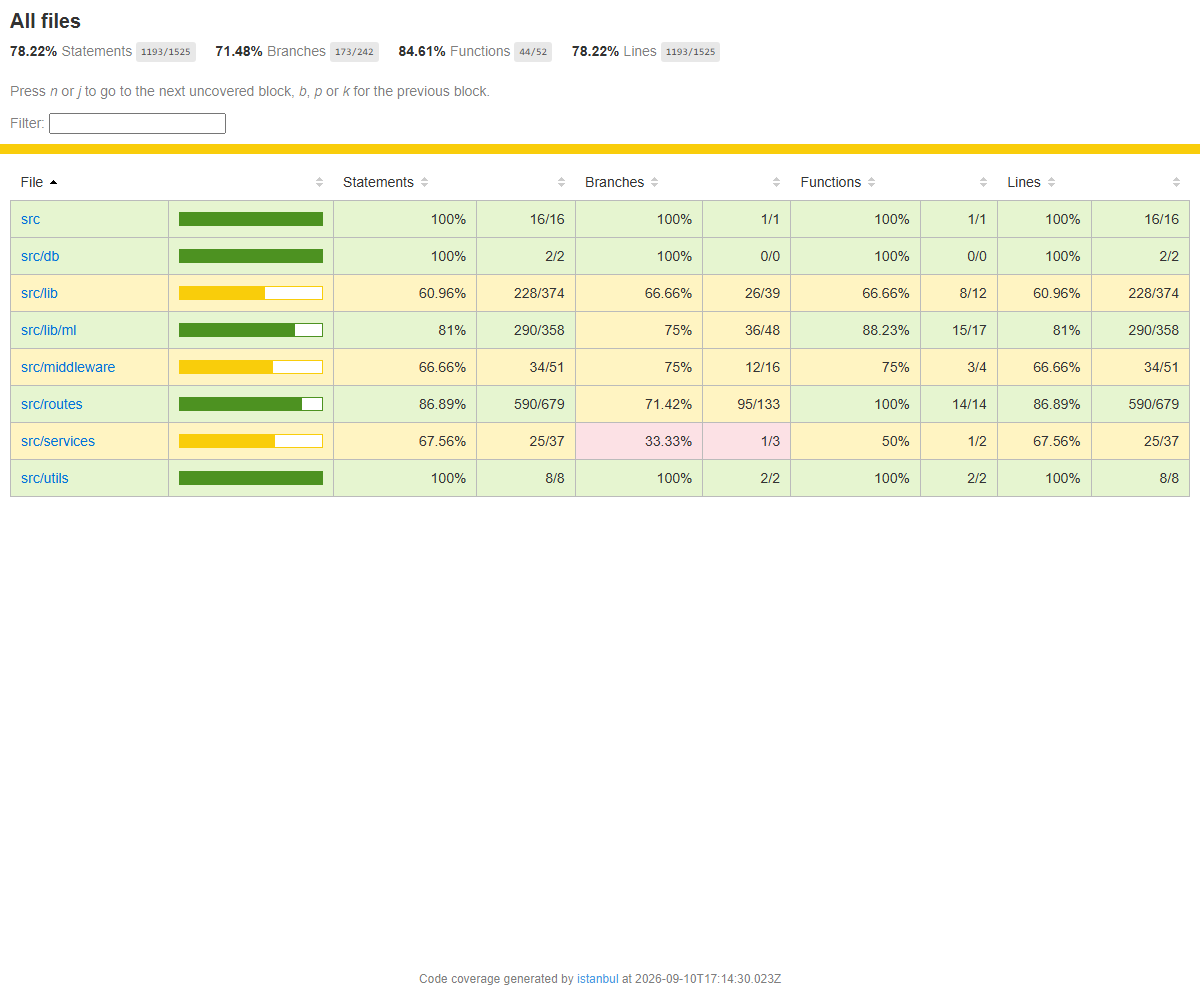
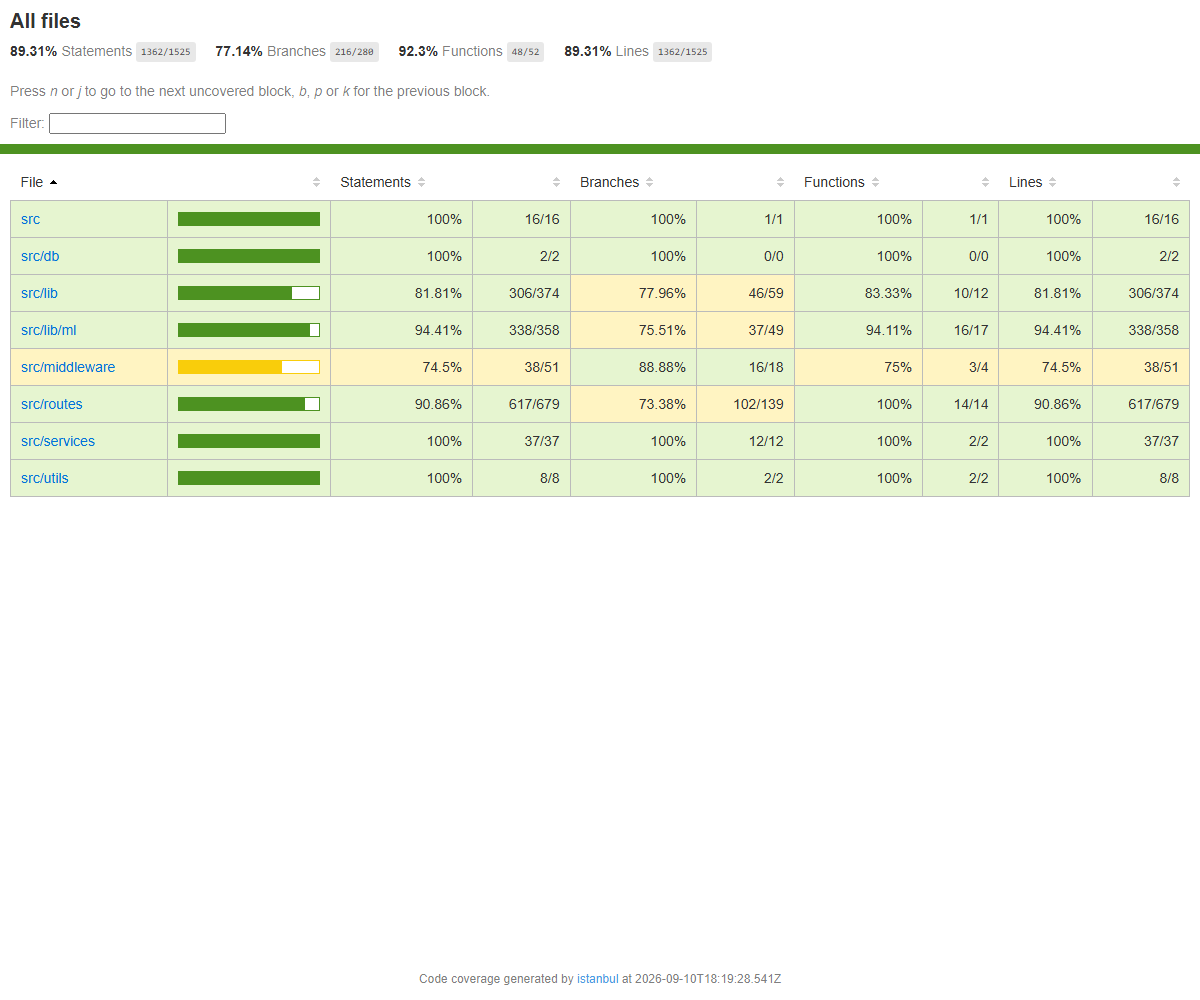
test(api): 52 -> 63 tests, coverage 78.2% -> 89.3% lines
- events: single + batch ingest, bad-timestamp 400s, authenticated attach
  (events.route 53% -> 91%, events.service 68% -> 100%)
- products: personalized recommendations for an authenticated buyer, invalid
  limit 400 (recommendations.ts 59% -> 89%)
- admin: demo-store synthetic dashboard, dashboard/customers RBAC 401/403
  (stores.ts 68% -> 100%, admin.dashboardBuilder 76% -> 100%, scoring.ts 76% -> 99.5%)

Branches 71.5% -> 77.1%, functions 84.6% -> 92.3%. 0 skipped, 0 todo.

diff --git a/apps/api/src/routes/events.route.integration.test.ts b/apps/api/src/routes/events.route.integration.test.ts
@@ -31,6 +31,90 @@ describeIfDb("POST /api/v1/events", () => {
 
     expect(res.body.success).toBe(false);
   });
+
+  it("returns 400 for an invalid occurredAt timestamp", async () => {
+    const res = await api()
+      .post("/api/v1/events")
+      .send({
+        eventType: "product_viewed",
+        sessionId: "test-session-ts",
+        occurredAt: "not-a-date",
+        payload: {},
+      })
+      .expect(400);
+
+    expect(res.body.error).toMatch(/occurredAt/i);
+  });
+
+  it("attaches the authenticated user when a bearer token is present", async () => {
+    const login = await api()
+      .post("/api/v1/auth/login")
+      .send({ email: "admin@cartmind.ai", password: "password123" });
+    const token = login.body.data.token as string;
+
+    const res = await api()
+      .post("/api/v1/events")
+      .set("Authorization", `Bearer ${token}`)
+      .send({
+        eventType: "add_to_cart",
+        sessionId: "test-session-authed",
+        occurredAt: new Date().toISOString(),
+        payload: { productId: "x", quantity: 1 },
+      })
+      .expect(201);
+
+    expect(res.body.data.eventType).toBe("add_to_cart");
+  });
+});
+
+describeIfDb("POST /api/v1/events/batch", () => {
+  it("ingests a batch of events and reports the count", async () => {
+    const res = await api()
+      .post("/api/v1/events/batch")
+      .send({
+        events: [
+          { eventType: "product_viewed", sessionId: "batch-1", payload: { productId: "a" } },
+          { eventType: "add_to_cart", sessionId: "batch-1", payload: { productId: "a", quantity: 2 } },
+          { eventType: "checkout_started", sessionId: "batch-1", payload: { cartValue: 120 } },
+        ],
+      })
+      .expect(201);
+
+    expect(res.body.data.ingested).toBe(3);
+    expect(res.body.data.events).toHaveLength(3);
+    expect(res.body.data.events[0].id).toBeTruthy();
+  });
+
+  it("returns 400 for an empty batch", async () => {
+    const res = await api()
+      .post("/api/v1/events/batch")
+      .send({ events: [] })
+      .expect(400);
+
+    expect(res.body.success).toBe(false);
+  });
+
+  it("returns 400 when a batch event is malformed", async () => {
+    const res = await api()
+      .post("/api/v1/events/batch")
+      .send({ events: [{ eventType: "not_real", sessionId: "batch-2", payload: {} }] })
+      .expect(400);
+
+    expect(res.body.error).toMatch(/batch/i);
+  });
+
+  it("returns 400 when a batch event has an invalid occurredAt", async () => {
+    const res = await api()
+      .post("/api/v1/events/batch")
+      .send({
+        events: [
+          { eventType: "product_viewed", sessionId: "batch-3", occurredAt: "nope", payload: {} },
+        ],
+      })
+      .expect(400);
+
+    expect(res.body.error).toMatch(/occurredAt/i);
+  });
 });
 
 describeIfDb("POST /api/v1/auth/login", () => {

diff --git a/apps/api/src/routes/products.route.integration.test.ts b/apps/api/src/routes/products.route.integration.test.ts
@@ -65,4 +65,28 @@ describeIfDb("GET /api/v1/products/recommendations", () => {
     const res = await api().get("/api/v1/products/recommendations?limit=6").expect(200);
     expect(res.body.data.items.length).toBeGreaterThan(0);
   });
+
+  it("personalizes recommendations for an authenticated buyer", async () => {
+    const login = await api()
+      .post("/api/v1/auth/login")
+      .send({ email: "alice@example.com", password: "password123" });
+    const token = login.body.data.token as string;
+
+    const list = await api().get("/api/v1/products?pageSize=2");
+    const seed = list.body.data.items[0].id as string;
+    const exclude = list.body.data.items[1].id as string;
+
+    const res = await api()
+      .get(`/api/v1/products/recommendations?seedProductIds=${seed}&excludeIds=${exclude}&limit=8`)
+      .set("Authorization", `Bearer ${token}`)
+      .expect(200);
+
+    expect(Array.isArray(res.body.data.items)).toBe(true);
+    expect(res.body.data.items.length).toBeLessThanOrEqual(8);
+    for (const p of res.body.data.items) expect(p.id).not.toBe(exclude);
+  });
+
+  it("returns 400 for an invalid limit", async () => {
+    await api().get("/api/v1/products/recommendations?limit=999").expect(400);
+  });
 });

diff --git a/apps/api/src/routes/admin.route.integration.test.ts b/apps/api/src/routes/admin.route.integration.test.ts
@@ -67,6 +67,28 @@ describeIfDb("Admin routes", () => {
       .expect(404);
   });
 
+  it("GET /admin/dashboard/<demo store> returns a synthetic dashboard", async () => {
+    const res = await api()
+      .get("/api/v1/admin/dashboard/bloommart")
+      .set("Authorization", `Bearer ${adminToken}`)
+      .expect(200);
+    expect(res.body.data.store.status).toBe("demo");
+    expect(res.body.data.kpis).toHaveProperty("revenue");
+    expect(res.body.data.cohorts.length).toBe(4);
+    expect(res.body.data.revenueTrend.length).toBe(7);
+  });
+
+  it("GET /admin/dashboard/velora returns 401 without a token", async () => {
+    await api().get("/api/v1/admin/dashboard/velora").expect(401);
+  });
+
+  it("GET /admin/customers returns 403 for a customer token", async () => {
+    await api()
+      .get("/api/v1/admin/customers")
+      .set("Authorization", `Bearer ${customerToken}`)
+      .expect(403);
+  });
+
   it("POST /admin/insights/chat returns a reply (Gemini or rule-based fallback)", async () => {
     const res = await api()
       .post("/api/v1/admin/insights/chat")

diff --git a/docs/screenshots/COVERAGE.md b/docs/screenshots/COVERAGE.md
@@ -7,28 +7,29 @@ Captured: 2026-09-10 (Vitest + `@vitest/coverage-v8`, against seeded Postgres)
 | Metric | Value |
 |--------|-------|
 | Test files | **11 passed**, 0 skipped |
-| Tests | **52 passed**, 0 todo |
-| Statements | **78.22%** (1193 / 1525) |
-| Branches | **71.48%** (173 / 242) |
-| Functions | **84.61%** (44 / 52) |
-| Lines | **78.22%** (1193 / 1525) |
+| Tests | **63 passed**, 0 todo |
+| Statements | **89.31%** (1362 / 1525) |
+| Branches | **77.14%** (216 / 280) |
+| Functions | **92.30%** (48 / 52) |
+| Lines | **89.31%** (1362 / 1525) |
 
 ## Coverage by area
 
-- `src/routes` — **86.9%** (auth, products, orders, banners, admin, events, health all DB-integration tested)
-- `src/lib/ml` — **81%** (predict 100%, k-means 96.8%, scoring 75.9%, pythonScores 69.1%)
-- `src/middleware/auth` — **89.3%**
-- `src/utils`, `src/db`, `src/app` — **100%**
+- `src/routes` — **90.9%** (auth, products, orders, banners, admin, events, health all DB-integration tested)
+- `src/lib/ml` — **94.4%** (predict 100%, scoring 99.5%, k-means 96.8%, pythonScores 69.1%)
+- `src/lib` — **81.8%** (recommendations 89%, stores 100%, insightContext 87.8%; `gemini.ts` live-API path uncovered by design)
+- `src/services`, `src/utils`, `src/db`, `src/app` — **100%**
+- `src/middleware` — auth 89.3%, optionalAuth 91.7%
 
 ## Test suites
 
 | Suite | Tests |
 |-------|-------|
 | `auth.route.integration.test.ts` | 9 — register/login/me, 401/403/409 paths |
-| `products.route.integration.test.ts` | 9 — list/paginate/filter/search, detail, recommendations |
+| `products.route.integration.test.ts` | 11 — list/paginate/filter/search, detail, recommendations (seeded + personalized + 400) |
 | `orders.route.integration.test.ts` | 7 — create (coupon, stock, 400/401), me, by id, 404 |
-| `admin.route.integration.test.ts` | 8 — stores, customers, dashboard (KPIs/events/ML/cohorts), insights chat, RBAC |
-| `events.route.integration.test.ts` | 4 — ingest, validation, auth attach |
+| `admin.route.integration.test.ts` | 12 — stores, customers, live + demo dashboards, insights chat, RBAC (401/403) |
+| `events.route.integration.test.ts` | 11 — single + batch ingest, validation, bad timestamp, auth attach |
 | `pipeline.integration.test.ts` | 3 — end-to-end ML/dashboard |
 | `health.route*.test.ts` | 6 — basic, verbose, invalid query |
 | `coupons.test.ts`, `predict.test.ts` | 5 — pure-unit |
